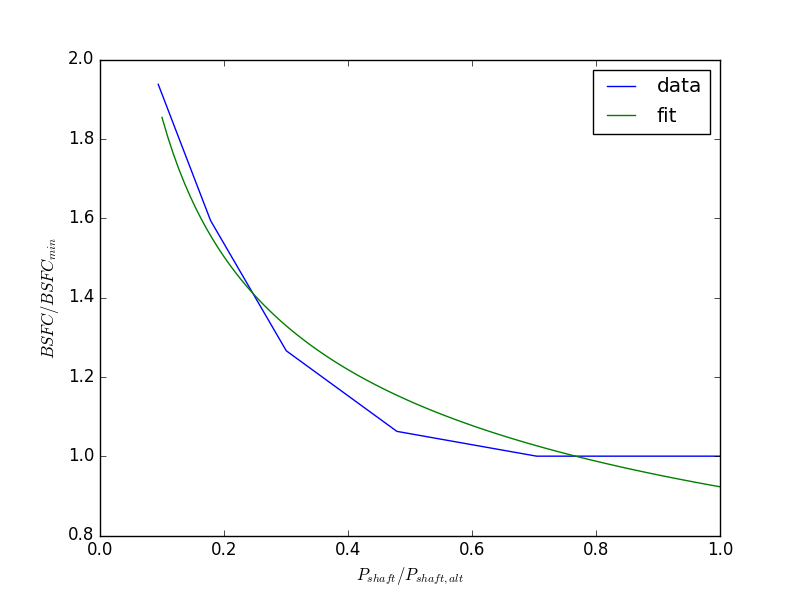
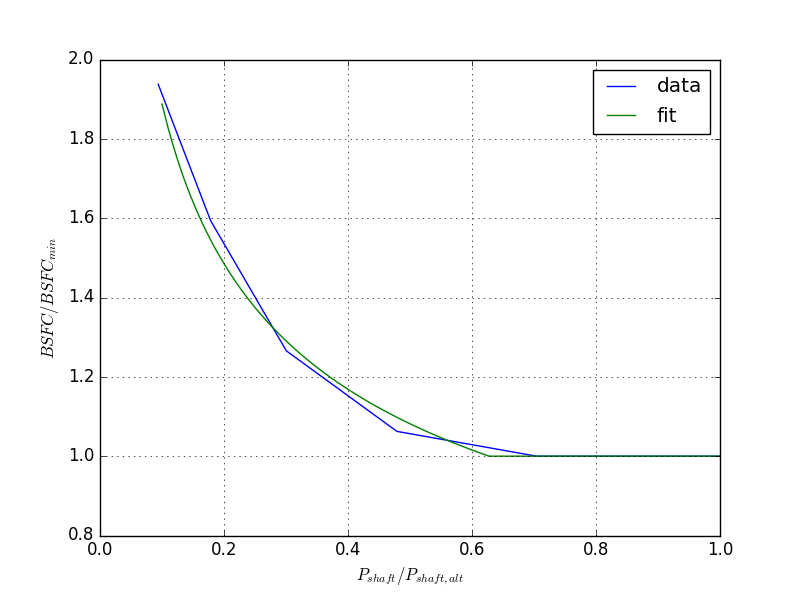
Resolved issues with BSFC models.

diff --git a/SimPleAC_mission4.py b/SimPleAC_mission4.py
@@ -142,7 +142,7 @@ class Engine(Model):
         BSFC_ref    = Variable("BSFC_{ref}", 0.32, "lbf/(hp*hr)", "reference brake specific fuel consumption")
         eta_prop    = Variable("\\eta_{prop}",0.8,'-',"propeller efficiency")
         P_shaft_ref = Variable("P_{shaft,ref}",149,"kW","reference MSL maximum shaft power")
-        W_e_ref     = Variable("W_{e,ref}",681,"N","reference engine weight")
+        W_e_ref     = Variable("W_{e,ref}",153, "lbf","reference engine weight")
         h_ref       = Variable("h_{ref}",15000,'ft','engine lapse reference altitude')
 
         # Free variables
@@ -176,8 +176,9 @@ class EngineP(Model):
             constraints += [P_shaft <= P_shaft_alt,
                         L == (0.937 * (state['h']/self.engine['h_{ref}'])**0.0922)**10,
                         SignomialEquality(1, L + P_shaft_alt / self.engine['P_{shaft,max}']),
-                        (BSFC/self.engine['BSFC_{ref}'])**(2.29) >= 6.57*(L)**6.60 + 1.14 * (L) ** 0.106,
-                        BSFC >= 0.32*units('lbf/(hp*hr)')]
+                        (BSFC/self.engine['BSFC_{ref}'])**(0.1) >= 0.984*(P_shaft/P_shaft_alt)**-0.0346,
+                        BSFC/self.engine['BSFC_{ref}'] >= 1.,
+                        ]
         return constraints
 
 
@@ -261,6 +262,10 @@ class Mission(Model):
                         (self.aircraft.wing['N_{ult}']**2. * self.aircraft.wing['A'] ** 3. *
                         ((W_p+self.aircraft.fuse['V_{f_{fuse}}']*self.aircraft['g']*self.aircraft['\\rho_f']) *
                          self.aircraft['W'] * self.aircraft.wing['S']))]
+
+        # Upper bounding variables
+        constraints += [t_m <= 100000*units('hr'),
+            W_f_m <= 1e10*units('N')]
 
         return constraints, state, self.aircraft, self.aircraftP
 

diff --git a/multimissionTest.py b/multimissionTest.py
@@ -1,0 +1,46 @@
+from gpkit import Model, Variable, SignomialsEnabled, SignomialEquality, VarKey, units,Vectorize
+from gpkit.constraints.bounded import Bounded
+from relaxed_constants import relaxed_constants, post_process
+
+import numpy as np
+import matplotlib.pyplot as plt
+
+from SimPleAC_mission4 import Mission, SimPleAC
+from atmosphere import Atmosphere
+
+from SimPleAC_multimission import Multimission
+
+Nmissions = 2
+Nsegments = 5
+
+m = Mission(SimPleAC(),5)
+m.substitutions.update({
+        'h_{cruise_m}'   :5000*units('m'),
+        'Range_m'        :3000*units('km'),
+        'W_{p_m}'        :6250*units('N'),
+        'C_m'            :120*units('1/hr'),
+        'V_{min_m}'      :25*units('m/s'),
+        'T/O factor_m'   :2,
+    })
+m.cost = m['W_{f_m}']*units('1/N')
+sol1 = m.localsolve(verbosity=2)
+
+m.substitutions.update({
+        'Range_m'        :2000*units('km'),
+        'W_{p_m}'        :8000*units('N'),
+        'C_m'            :360*units('1/hr'),
+    })
+m.cost = m['C_m']*m['t_m']
+sol2 = m.localsolve(verbosity=2)
+
+
+m = Multimission(Nmissions,Nsegments)
+m.substitutions.update({
+        'h_{cruise_{mm}}':[5000*units('m'), 5000*units('m')],
+        'Range_{mm}'     :[3000*units('km'), 2000*units('km')],
+        'W_{p_{mm}}'     :[6250*units('N'),   8000*units('N')],
+        'C_{mm}'         :[120*units('1/hr'), 360*units('1/hr')],
+    })
+
+m.cost = (m.missions[0]['W_{f_m}']*units('1/N') + m.missions[1]['C_m']*m.missions[1]['t_m'])
+sol3 = m.localsolve(verbosity = 2)

diff --git a/SimPleAC_multimission.py b/SimPleAC_multimission.py
@@ -39,8 +39,6 @@ class Multimission(Model):
             self.missions[i]['C_m']          == cost_index[i],
             self.missions[i]['T/O factor_m'] == TOfac[i],
             # Upper bounding relevant variables
-            self.missions[i]['t_m'] <= 100000*units('hr'),
-            self.missions[i]['W_{f_m}'] <= 1e10*units('N'),
             W_f_mm <= 1e11*units('N'),
             ]
 
@@ -57,11 +55,11 @@ if __name__ == "__main__":
     m = Multimission(Nmissions,Nsegments)
     m.substitutions.update({
         'h_{cruise_{mm}}':[5000*units('m'), 5000*units('m')],
-        'Range_{mm}'     :[3000*units('km'), 1000*units('km')],
+        'Range_{mm}'     :[3000*units('km'), 2000*units('km')],
         'W_{p_{mm}}'     :[6250*units('N'),   8000*units('N')],
         'C_{mm}'         :[120*units('1/hr'), 360*units('1/hr')],
     })
     #m.cost = m['W_{f_{mm}}']*units('1/N') + sum(m.missions[i]['C_m']*m.missions[i]['t_m'] for i in range(0,Nmissions))
-    m.cost = m.missions[0]['W_{f_m}']*units('1/N') + m.missions[1]['C_m']*m.missions[1]['t_m']
+    m.cost = (m.missions[0]['W_{f_m}']*units('1/N') + m.missions[1]['C_m']*m.missions[1]['t_m'])
     sol = m.localsolve(verbosity = 4)
 

diff --git a/enginefit/fitBSFC.py b/enginefit/fitBSFC.py
@@ -26,13 +26,19 @@ cstrt, rms_error = fit(log(P[0:-1]/Pmax),log(BSFC[0:-1]/BSFCmin),K,Type)
 
 # Plotting
 Lnew = np.linspace(0.1,1,100)
-newPoints = (6.57*(Lnew)**6.60 + 1.14 * (Lnew) ** 0.106)**(1/2.29)
+#newPoints = (6.57*(Lnew)**6.60 + 1.14 * (Lnew) ** 0.106)**(1/2.29)
 #newPoints = (0.992*(Lnew)**-0.0303)**10
-plt.plot(L,BSFC/BSFCmin,label='data')
-#plt.plot(P/Pmax,BSFC/BSFCmin,label='data')
+#newPoints = (2670*(Lnew)**32.7 + 0.925*(Lnew)**-0.140)**(1/0.373)
+newPoints = (.984*Lnew**-0.0346)**10
+for i in range(0,100):
+    if newPoints[i] <= 1.:
+        newPoints[i] = 1.
+#plt.plot(L,BSFC/BSFCmin,label='data')
+plt.plot(P/Pmax,BSFC/BSFCmin,label='data')
 plt.plot(Lnew,newPoints,label='fit')
-plt.xlabel('$1 - P_{shaft}/P_{shaft,alt}$')
+plt.xlabel('$P_{shaft}/P_{shaft,alt}$')
 plt.ylabel('$BSFC/BSFC_{min}$')
-plt.legend(loc=2)
+plt.legend(loc=1)
+plt.grid()
 plt.show()
 

diff --git a/SimPleAC_eng.py b/SimPleAC_eng.py
@@ -101,7 +101,7 @@ class Engine(Model):
         eta_prop    = Variable("\\eta_{prop}",0.8,'-',"propeller efficiency")
         P_shaft_ref = Variable("P_{shaft,ref}",149,"kW","reference MSL maximum shaft power")
         BSFC        = Variable("BSFC", 400, "g/(kW*hr)", "brake specific fuel consumption")
-        W_e_ref     = Variable("W_{e,ref}",681,"N","reference engine weight")
+        W_e_ref     = Variable("W_{e,ref}",153, "lbf","reference engine weight")
 
         # Free variables
         P_shaft     = Variable("P_{shaft}","kW","shaft power")

diff --git a/SimPleAC_modular1_wing.py b/SimPleAC_modular1_wing.py
@@ -123,7 +123,7 @@ class Engine(Model):
         eta_prop    = Variable("\\eta_{prop}",0.8,'-',"propeller efficiency")
         P_shaft_ref = Variable("P_{shaft,ref}",149,"kW","reference MSL maximum shaft power")
         BSFC        = Variable("BSFC", 400, "g/(kW*hr)", "brake specific fuel consumption")
-        W_e_ref     = Variable("W_{e,ref}",681,"N","reference engine weight")
+        W_e_ref     = Variable("W_{e,ref}",153, "lbf","reference engine weight")
 
         # Free variables
         P_shaft     = Variable("P_{shaft}","kW","shaft power")

diff --git a/SimPleAC_modular2_fuselage.py b/SimPleAC_modular2_fuselage.py
@@ -129,7 +129,7 @@ class Engine(Model):
         eta_prop    = Variable("\\eta_{prop}",0.8,'-',"propeller efficiency")
         P_shaft_ref = Variable("P_{shaft,ref}",149,"kW","reference MSL maximum shaft power")
         BSFC        = Variable("BSFC", 400, "g/(kW*hr)", "brake specific fuel consumption")
-        W_e_ref     = Variable("W_{e,ref}",681,"N","reference engine weight")
+        W_e_ref     = Variable("W_{e,ref}",153, "lbf","reference engine weight")
 
         # Free variables
         P_shaft     = Variable("P_{shaft}","kW","shaft power")

diff --git a/SimPleAC_mission3.py b/SimPleAC_mission3.py
@@ -141,7 +141,7 @@ class Engine(Model):
         # Dimensional constants
         eta_prop    = Variable("\\eta_{prop}",0.8,'-',"propeller efficiency")
         P_shaft_ref = Variable("P_{shaft,ref}",149,"kW","reference MSL maximum shaft power")
-        W_e_ref     = Variable("W_{e,ref}",681,"N","reference engine weight")
+        W_e_ref     = Variable("W_{e,ref}",153, "lbf","reference engine weight")
         h_ref       = Variable("h_{ref}",15000,'ft','engine lapse reference altitude')
 
         # Free variables

diff --git a/SimPleAC_mission.py b/SimPleAC_mission.py
@@ -154,7 +154,7 @@ class Engine(Model):
         # Dimensional constants
         eta_prop    = Variable("\\eta_{prop}",0.8,'-',"propeller efficiency")
         P_shaft_ref = Variable("P_{shaft,ref}",149,"kW","reference MSL maximum shaft power")
-        W_e_ref     = Variable("W_{e,ref}",681,"N","reference engine weight")
+        W_e_ref     = Variable("W_{e,ref}",153, "lbf","reference engine weight")
 
         # Free variables
         P_shaft_max = Variable("P_{shaft,max}","kW","MSL maximum shaft power")

diff --git a/SimPleAC_mission2.py b/SimPleAC_mission2.py
@@ -140,7 +140,7 @@ class Engine(Model):
         # Dimensional constants
         eta_prop    = Variable("\\eta_{prop}",0.8,'-',"propeller efficiency")
         P_shaft_ref = Variable("P_{shaft,ref}",149,"kW","reference MSL maximum shaft power")
-        W_e_ref     = Variable("W_{e,ref}",681,"N","reference engine weight")
+        W_e_ref     = Variable("W_{e,ref}",153, "lbf","reference engine weight")
 
         # Free variables
         P_shaft_max = Variable("P_{shaft,max}","kW","MSL maximum shaft power")
